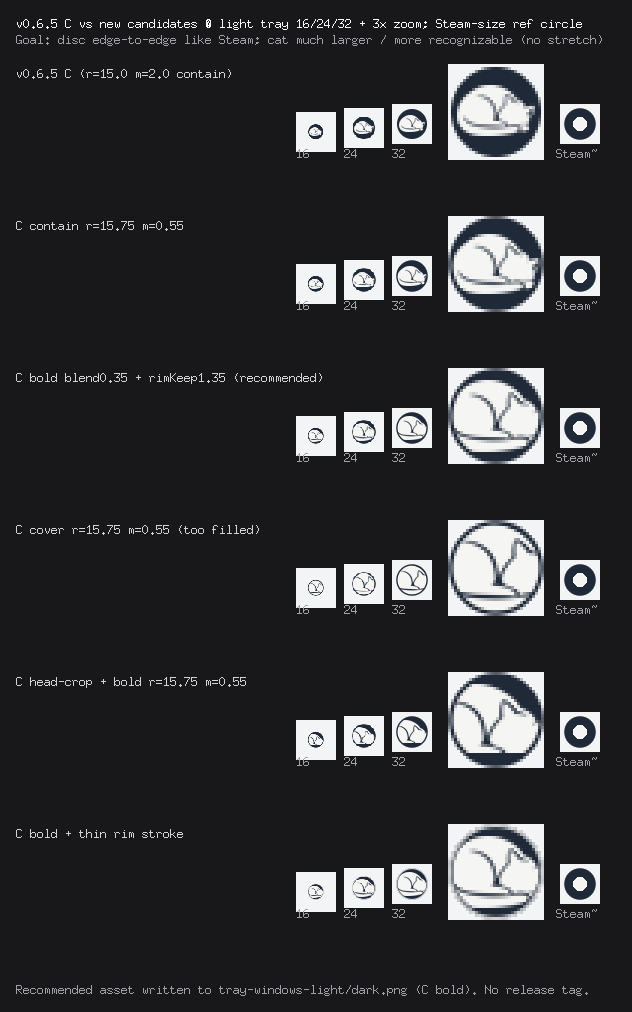
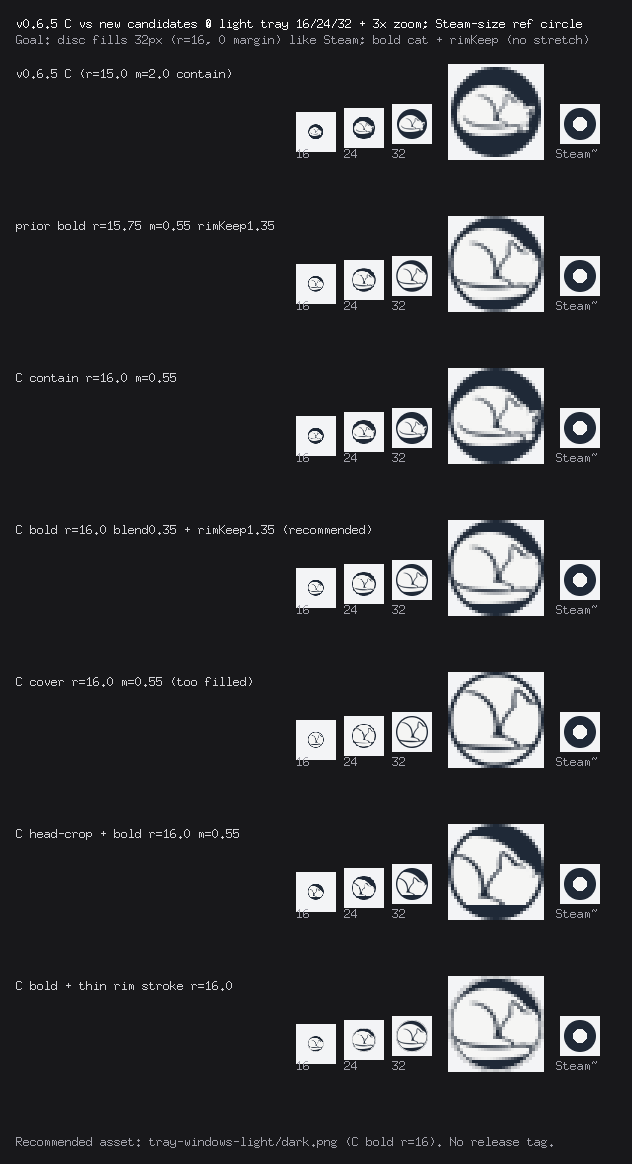
feat(windows): fill tray disc to 32px canvas (r=16)
Bump circular badge radius 15.75→16.0 so the inverted C disc has 0
outer margin on the 32×32 asset while keeping bold cat layout and
rimKeep≈1.35 for recognition. Regenerate tray-windows-light/dark.png
and docs preview sheets; macOS tray.png untouched. No version bump
or release tag.

diff --git a/scripts/generate-windows-tray.go b/scripts/generate-windows-tray.go
@@ -33,12 +33,12 @@ import (
 	"golang.org/x/image/math/fixed"
 )
 
-// Geometry tuned so the disc matches Steam's edge-to-edge tray footprint
-// and the cat sits larger inside while leaving a readable graphite/ivory ring
-// (full cover swallows the badge and reads as a white blob at 16px).
+// Geometry: disc fills the 32×32 canvas (r=16, 0 outer margin) to match
+// Steam's edge-to-edge tray footprint; cat stays bold inside with rimKeep
+// so the inverted badge still reads as a circle (full cover → white blob).
 const (
 	outSize      = 32
-	circleRadius = 15.75 // ~0–1px outer margin on 32×32 (was 15.0 → 1px each side)
+	circleRadius = 16.0  // fill 32×32 completely (0 outer margin; was 15.75)
 	catMargin    = 0.55  // fit padding used when sizing the silhouette (was 2.0)
 	boldBlend    = 0.35  // contain→cover lerp for -layout=bold (recommended)
 	rimKeep      = 1.35  // guaranteed disc ring (px) so cat never erases Steam footprint
@@ -200,11 +200,12 @@ func main() {
 
 	cands := []candidate{
 		{id: "v065", label: "v0.6.5 C (r=15.0 m=2.0 contain)", layout: layoutContain, r: 15.0, margin: 2.0},
-		{id: "contain-tight", label: "C contain r=15.75 m=0.55", layout: layoutContain, r: circleRadius, margin: catMargin},
-		{id: "bold", label: "C bold blend0.35 + rimKeep1.35 (recommended)", layout: layoutBold, r: circleRadius, margin: catMargin},
-		{id: "cover", label: "C cover r=15.75 m=0.55 (too filled)", layout: layoutCover, r: circleRadius, margin: catMargin},
-		{id: "head", label: "C head-crop + bold r=15.75 m=0.55", layout: layoutHead, r: circleRadius, margin: catMargin},
-		{id: "bold-stroke", label: "C bold + thin rim stroke", layout: layoutBold, r: circleRadius, margin: catMargin, stroke: true},
+		{id: "bold-1575", label: "prior bold r=15.75 m=0.55 rimKeep1.35", layout: layoutBold, r: 15.75, margin: catMargin},
+		{id: "contain-tight", label: "C contain r=16.0 m=0.55", layout: layoutContain, r: circleRadius, margin: catMargin},
+		{id: "bold", label: "C bold r=16.0 blend0.35 + rimKeep1.35 (recommended)", layout: layoutBold, r: circleRadius, margin: catMargin},
+		{id: "cover", label: "C cover r=16.0 m=0.55 (too filled)", layout: layoutCover, r: circleRadius, margin: catMargin},
+		{id: "head", label: "C head-crop + bold r=16.0 m=0.55", layout: layoutHead, r: circleRadius, margin: catMargin},
+		{id: "bold-stroke", label: "C bold + thin rim stroke r=16.0", layout: layoutBold, r: circleRadius, margin: catMargin, stroke: true},
 	}
 	cmp := buildCandidateCompare(src, fullBBox, *rec, cands, *mockups)
 	if err := writePNG("docs/tray-windows-size-compare.png", cmp); err != nil {
@@ -638,7 +639,7 @@ func buildSheet(all []sized) *image.NRGBA {
 	height := pad + 36 + rows*(cell+labelH+pad) + 40
 	img := image.NewNRGBA(image.Rect(0, 0, width, height))
 	fillRect(img, img.Bounds(), color.NRGBA{R: 24, G: 24, B: 27, A: 255})
-	drawLabel(img, pad, pad+12, "Gopurr Windows tray — circle variants (edge-to-edge + larger cat) + 16/24/32", color.NRGBA{R: 250, G: 250, B: 249, A: 255})
+	drawLabel(img, pad, pad+12, "Gopurr Windows tray — circle variants (r=16 fill + bold cat) + 16/24/32", color.NRGBA{R: 250, G: 250, B: 249, A: 255})
 
 	y := pad + 36
 	for _, it := range all {
@@ -663,7 +664,7 @@ func buildSheet(all []sized) *image.NRGBA {
 		}
 		y += cell + labelH + pad
 	}
-	drawLabel(img, pad, height-20, "Recommended: C inverted badge + bold layout (disc edge-to-edge, larger cat, visible ring). Mac tray.png unchanged.", color.NRGBA{R: 161, G: 161, B: 170, A: 255})
+	drawLabel(img, pad, height-20, "Recommended: C inverted badge + bold layout (disc r=16 fill, larger cat, rimKeep). Mac tray.png unchanged.", color.NRGBA{R: 161, G: 161, B: 170, A: 255})
 	return img
 }
 
@@ -714,7 +715,7 @@ func buildCandidateCompare(src *image.NRGBA, bbox image.Rectangle, v pair, cands
 	img := image.NewNRGBA(image.Rect(0, 0, width, height))
 	fillRect(img, img.Bounds(), color.NRGBA{R: 24, G: 24, B: 27, A: 255})
 	drawLabel(img, pad, pad+12, "v0.6.5 C vs new candidates — light tray 16/24/32 + 3x zoom; Steam-size ref circle", color.NRGBA{R: 250, G: 250, B: 249, A: 255})
-	drawLabel(img, pad, pad+28, "Goal: disc edge-to-edge like Steam; cat much larger / more recognizable (no stretch)", color.NRGBA{R: 161, G: 161, B: 170, A: 255})
+	drawLabel(img, pad, pad+28, "Goal: disc fills 32px (r=16, 0 margin) like Steam; bold cat + rimKeep (no stretch)", color.NRGBA{R: 161, G: 161, B: 170, A: 255})
 
 	trayBG := color.NRGBA{R: 243, G: 244, B: 246, A: 255}
 	steamRef := color.NRGBA{R: 31, G: 41, B: 55, A: 255}
@@ -739,14 +740,14 @@ func buildCandidateCompare(src *image.NRGBA, bbox image.Rectangle, v pair, cands
 		placeZoom(img, lt, x, y, cell, trayBG)
 		x += cell + 16
 		ref := image.NewNRGBA(image.Rect(0, 0, 32, 32))
-		fillCircle(ref, 16, 16, 15.75, steamRef)
+		fillCircle(ref, 16, 16, 16.0, steamRef)
 		fillCircle(ref, 16, 16, 6.5, color.NRGBA{R: 245, G: 245, B: 244, A: 255})
 		placeSized(img, ref, x, y+cell-32-20, 32, trayBG, steamBox)
 		drawLabel(img, x-4, y+cell-2, "Steam~", color.NRGBA{R: 161, G: 161, B: 170, A: 255})
 
 		y += rowH
 	}
-	drawLabel(img, pad, height-18, "Recommended asset written to tray-windows-light/dark.png (C bold). No release tag.", color.NRGBA{R: 161, G: 161, B: 170, A: 255})
+	drawLabel(img, pad, height-18, "Recommended asset: tray-windows-light/dark.png (C bold r=16). No release tag.", color.NRGBA{R: 161, G: 161, B: 170, A: 255})
 	return img
 }
 

diff --git a/internal/brand/README.md b/internal/brand/README.md
@@ -7,7 +7,7 @@
 - `tray.svg`：相同剪影的菜单栏版本，只有黑色与透明像素，缩紧视口以适配 16/18 像素。
 - `logo.png`、`icon.png`、`sidebar.png`：从渲染源派生的 1024、512、128 像素版本。
 - `tray.png`：从菜单栏矢量派生的 32 像素模板，由 macOS 适配明暗。
-- `tray-windows-light.png` / `tray-windows-dark.png`：Windows 托盘专用 32 像素实色图（圆底 Graphite 风格），非模板。默认变体 C：浅色任务栏为 Graphite 圆底 + 象牙白猫，深色任务栏为象牙圆底 + Graphite 猫；圆近似贴满 32×32（约 0–1px 外边距，贴近 Steam 圆底足迹），猫在圆内等比放大（`bold`：contain→cover 插值 + 约 1.35px 环带保留，避免吃掉圆底）。`main` 按任务栏明暗切换。用 `go run scripts/generate-windows-tray.go`（`-variant=A|B|C|none`，`-layout=contain|bold|cover|head`，`-preview` 出对比图）重生成，勿改 `tray.png`。对比见 `docs/tray-windows-circle-preview.png` 与 `docs/tray-windows-size-compare.png`。
+- `tray-windows-light.png` / `tray-windows-dark.png`：Windows 托盘专用 32 像素实色图（圆底 Graphite 风格），非模板。默认变体 C：浅色任务栏为 Graphite 圆底 + 象牙白猫，深色任务栏为象牙圆底 + Graphite 猫；圆贴满 32×32（r≈16，0 外边距，贴近 Steam 圆底足迹；若系统裁切再回退），猫在圆内等比放大（`bold`：contain→cover 插值 + 约 1.35px 环带保留，避免吃掉圆底）。`main` 按任务栏明暗切换。用 `go run scripts/generate-windows-tray.go`（`-variant=A|B|C|none`，`-layout=contain|bold|cover|head`，`-preview` 出对比图）重生成，勿改 `tray.png`。对比见 `docs/tray-windows-circle-preview.png` 与 `docs/tray-windows-size-compare.png`。
 
 编辑 `logo.svg` 与 `tray.svg` 时保持剪影路径一致，然后运行：
 
